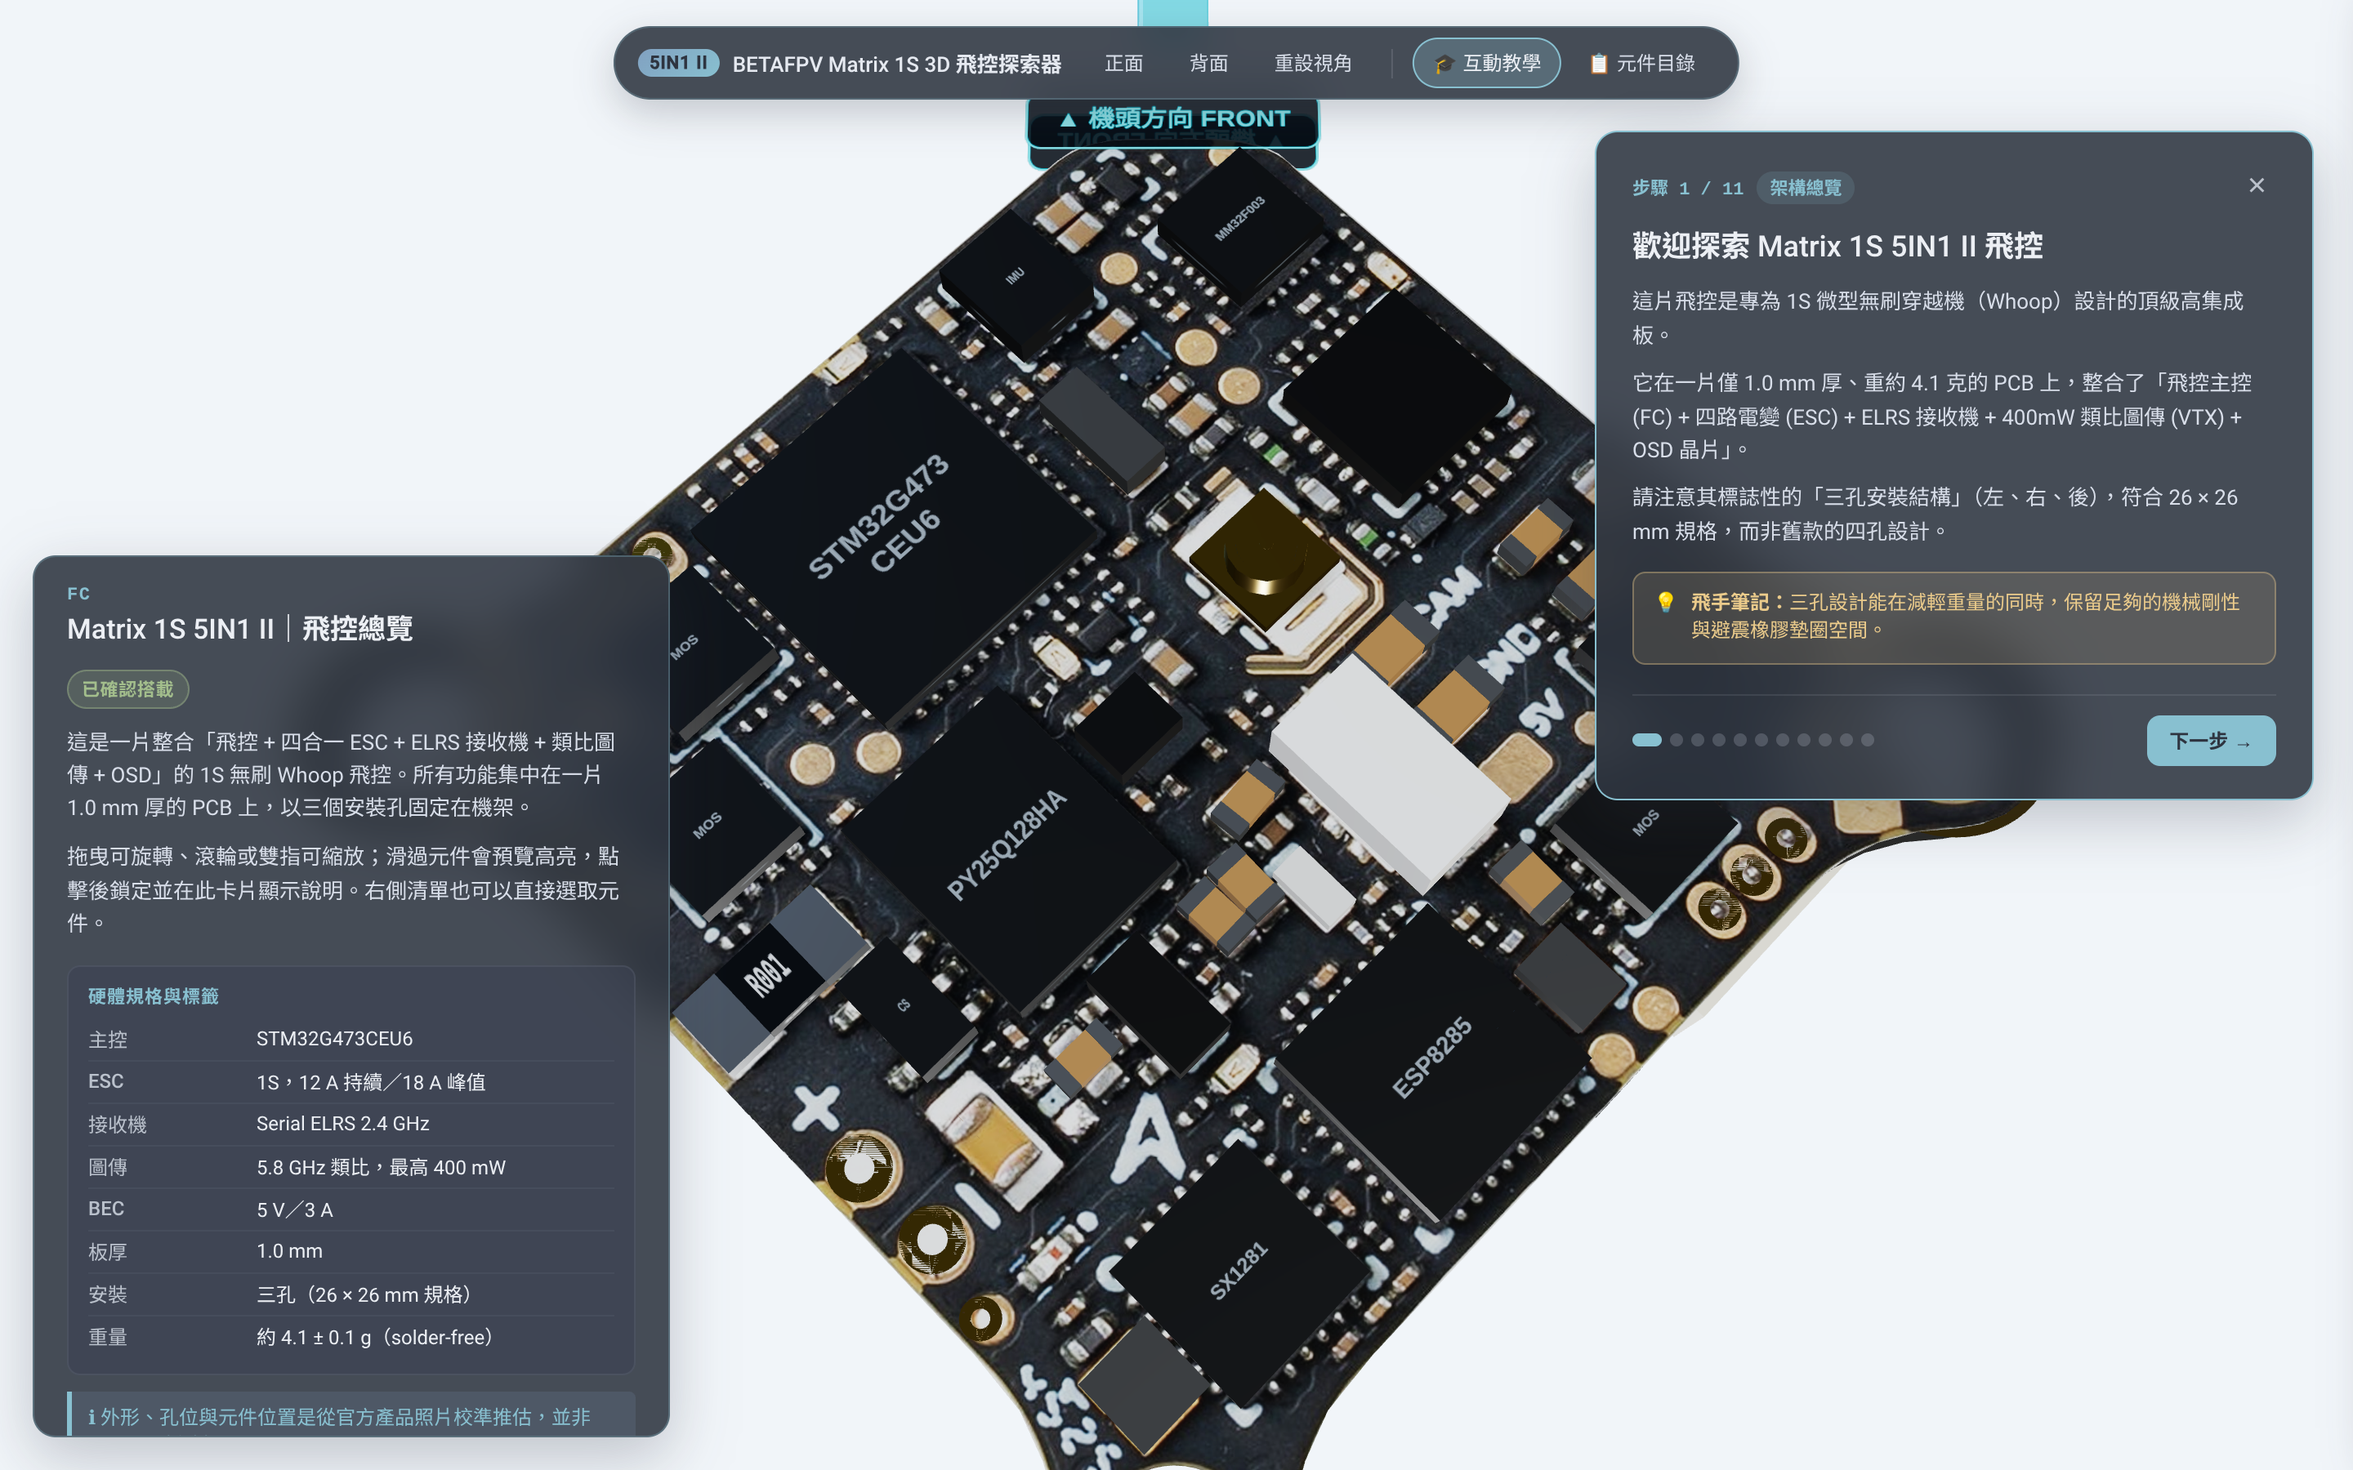
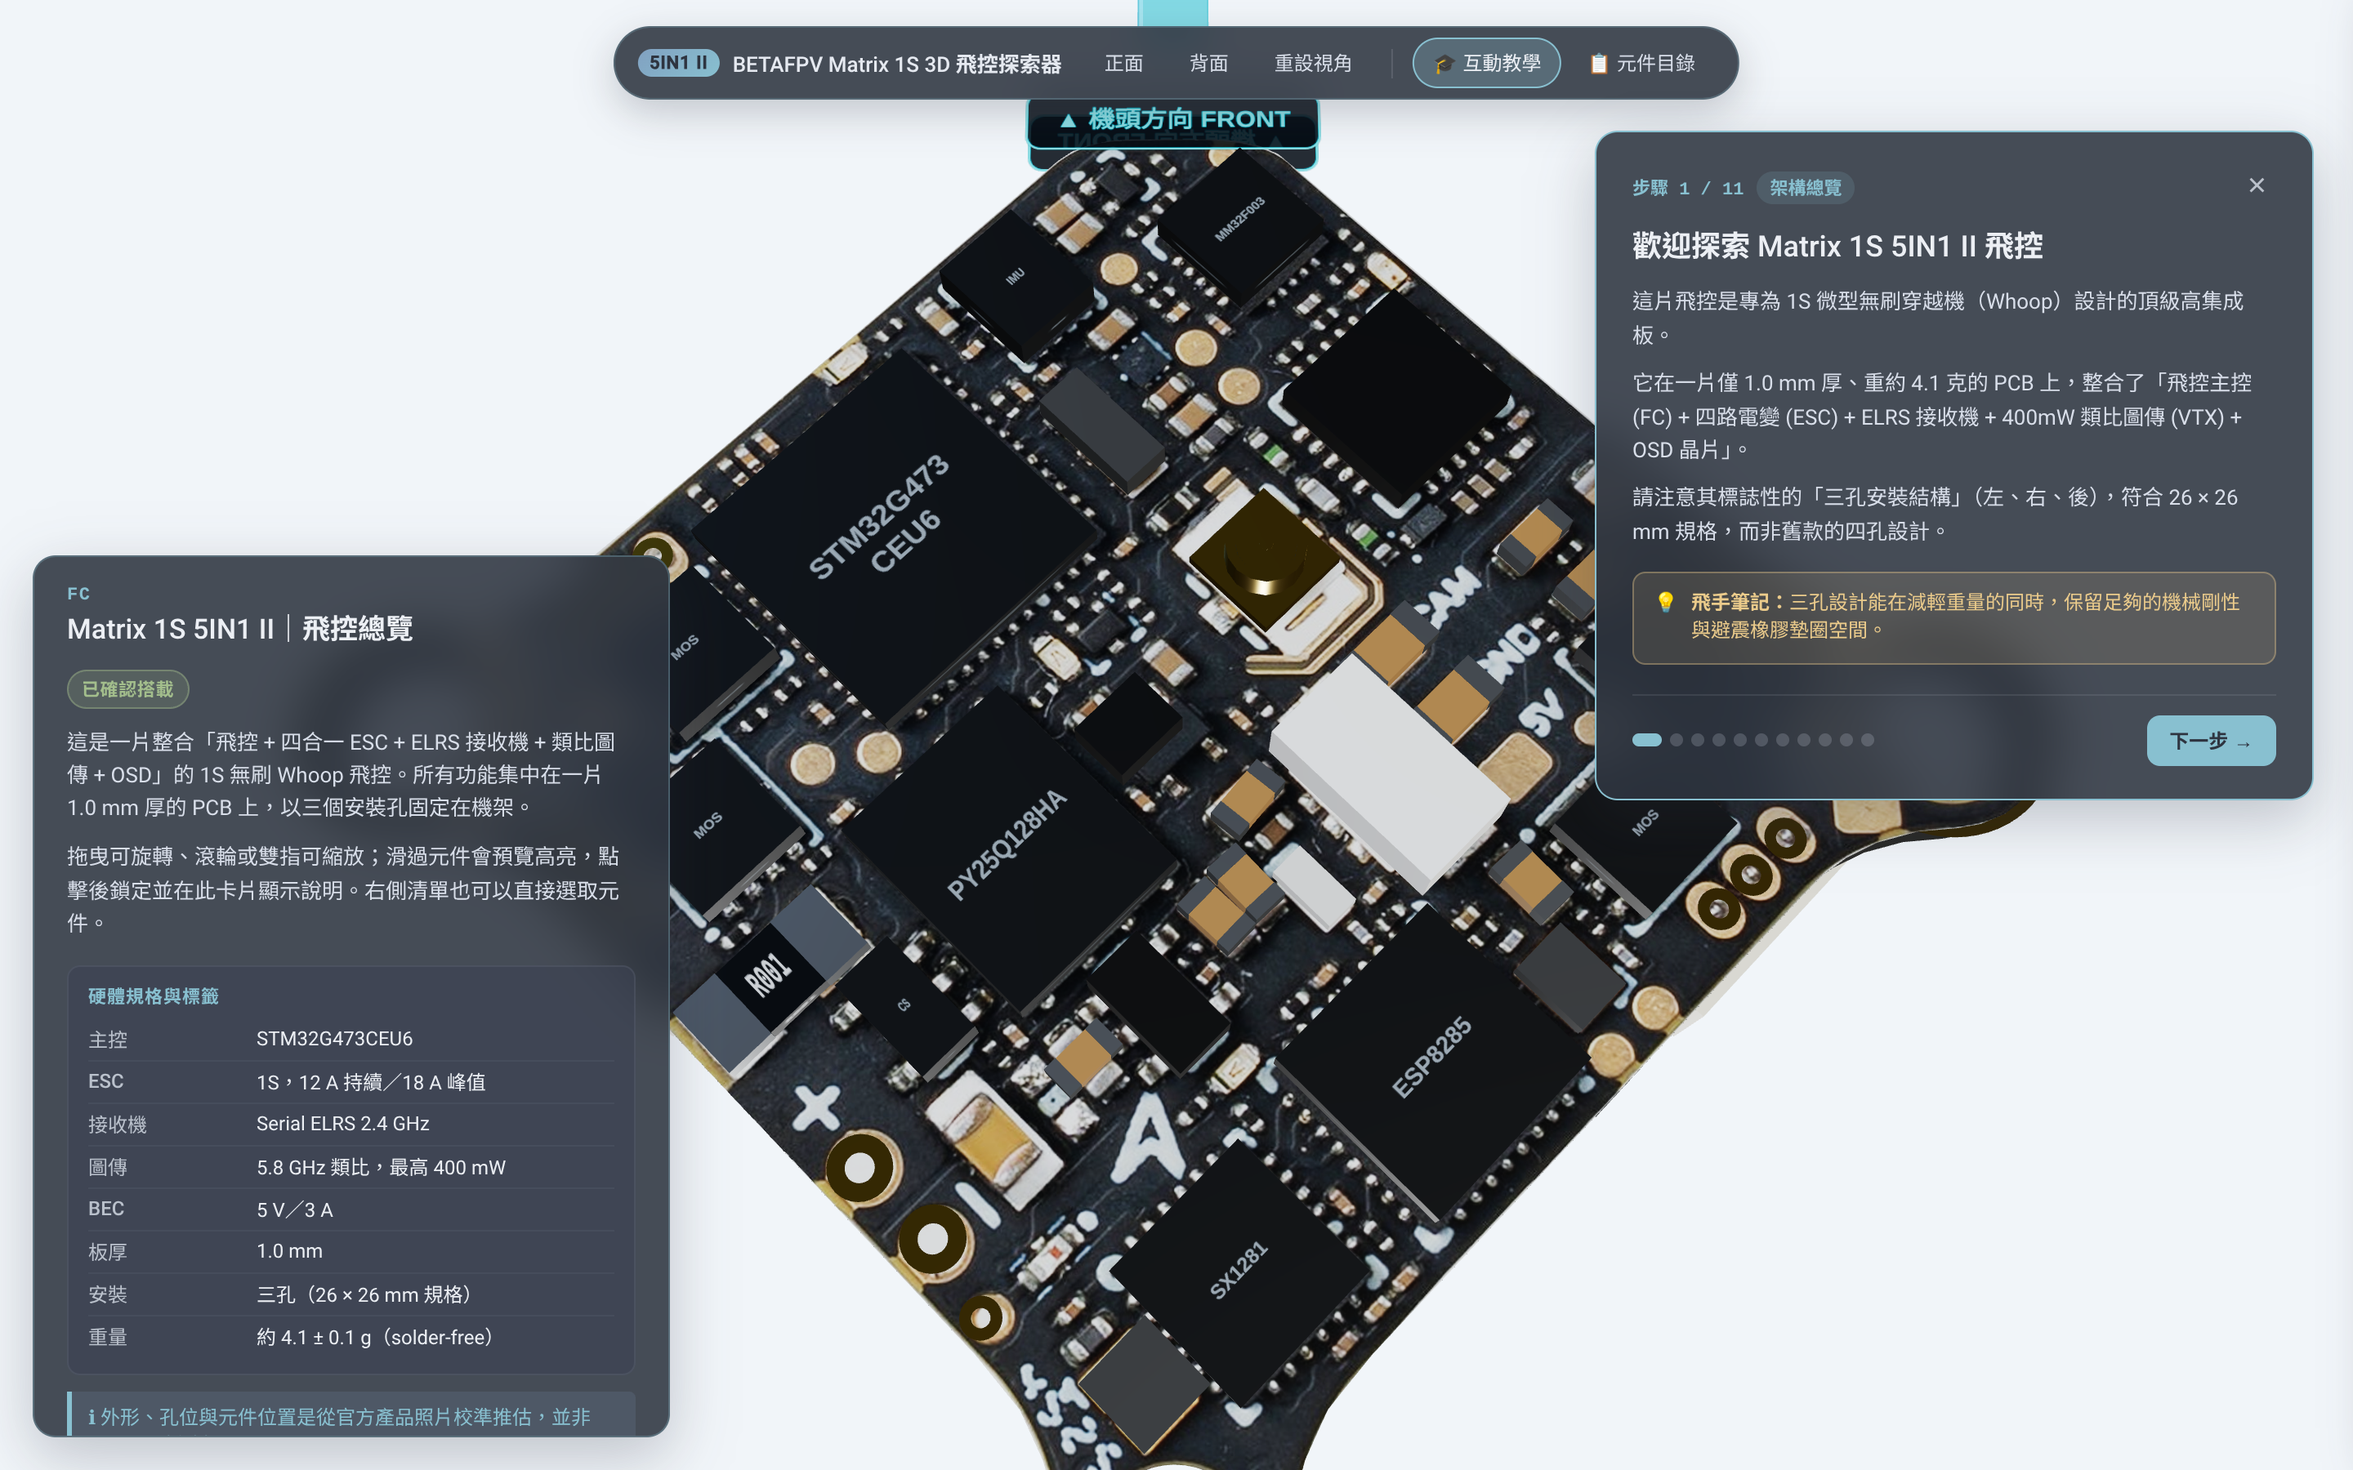
feat(ui): highlight verified board interfaces

diff --git a/src/scene/highlight.ts b/src/scene/highlight.ts
@@ -11,6 +11,7 @@ export class HighlightManager {
 
   // State
   private hoveredId: ComponentId | null = null;
+  private hoveredPlacementKey: string | null = null;
   private selectedId: ComponentId | null = null;
   private selectedPlacementKey: string | null = null;
 
@@ -20,18 +21,11 @@ export class HighlightManager {
   private readonly selectMaterials = new Map<THREE.Mesh, THREE.Material | THREE.Material[]>();
   private readonly dimMaterials = new Map<THREE.Mesh, THREE.Material | THREE.Material[]>();
 
-  // Selection accent box wireframe in 3D space
-  private readonly selectionBox: THREE.BoxHelper;
+  // Reuse one outline per physical placement, including distributed connectors.
+  private readonly selectionBoxes = new Map<string, THREE.Box3Helper>();
 
   constructor(scene: THREE.Scene) {
     this.scene = scene;
-    this.selectionBox = new THREE.BoxHelper(new THREE.Object3D(), 0x00f0ff);
-    this.selectionBox.visible = false;
-    (this.selectionBox.material as THREE.LineBasicMaterial).linewidth = 2;
-    this.selectionBox.renderOrder = 999;
-    (this.selectionBox.material as THREE.LineBasicMaterial).depthTest = false;
-    this.scene.add(this.selectionBox);
-
     this.indexMeshes();
   }
 
@@ -73,9 +67,10 @@ export class HighlightManager {
     });
   }
 
-  setHover(id: ComponentId | null) {
-    if (this.hoveredId === id) return;
+  setHover(id: ComponentId | null, placementKey: string | null = null) {
+    if (this.hoveredId === id && this.hoveredPlacementKey === placementKey) return;
     this.hoveredId = id;
+    this.hoveredPlacementKey = placementKey;
     this.applyHighlights();
   }
 
@@ -93,36 +88,32 @@ export class HighlightManager {
       mesh.material = origMat;
     });
 
-    // 2. Dim other components when a component is selected (contrast enhancement)
-    if (this.selectedId && this.selectedId !== 'board') {
-      const selectedMeshes = new Set(this.meshesByComponent.get(this.selectedId) || []);
-
+    const selectedMeshes = new Set(this.getTargetMeshes(this.selectedId, this.selectedPlacementKey));
+    // A card without model geometry must not dim the entire board.
+    if (selectedMeshes.size > 0) {
       this.allManagedMeshes.forEach((mesh) => {
-        if (!selectedMeshes.has(mesh)) {
-          mesh.material = this.getOrCreateDimMaterial(mesh);
-        }
-      });
-
-      // 3. Apply Selected Highlight to the target meshes (clean emissive glow, markings visible)
-      selectedMeshes.forEach((mesh) => {
-        mesh.material = this.getOrCreateSelectMaterial(mesh);
+        mesh.material = selectedMeshes.has(mesh)
+          ? this.getOrCreateSelectMaterial(mesh)
+          : this.getOrCreateDimMaterial(mesh);
       });
     }
 
-    // 4. Apply Hover Highlight (if hoveredId is not currently selected)
-    if (this.hoveredId && this.hoveredId !== this.selectedId && this.hoveredId !== 'board') {
-      const hoverMeshes = this.meshesByComponent.get(this.hoveredId) || [];
-      hoverMeshes.forEach((mesh) => {
-        mesh.material = this.getOrCreateHoverMaterial(mesh);
-      });
+    for (const mesh of this.getTargetMeshes(this.hoveredId, this.hoveredPlacementKey)) {
+      if (!selectedMeshes.has(mesh)) mesh.material = this.getOrCreateHoverMaterial(mesh);
     }
+  }
+
+  private getTargetMeshes(id: ComponentId | null, placementKey: string | null): THREE.Mesh[] {
+    if (!id || id === 'board') return [];
+    const meshes = this.meshesByComponent.get(id) || [];
+    return placementKey ? meshes.filter((mesh) => this.findPlacementKey(mesh) === placementKey) : meshes;
   }
 
   private getOrCreateHoverMaterial(mesh: THREE.Mesh): THREE.Material | THREE.Material[] {
     let mat = this.hoverMaterials.get(mesh);
     if (!mat) {
       const orig = this.originalMaterials.get(mesh) || mesh.material;
-      mat = this.cloneWithTint(orig, 0x00d8f0, 0.22);
+      mat = this.cloneWithTint(orig, 0x8fbcbb, 0.22);
       this.hoverMaterials.set(mesh, mat);
     }
     return mat;
@@ -132,7 +123,7 @@ export class HighlightManager {
     let mat = this.selectMaterials.get(mesh);
     if (!mat) {
       const orig = this.originalMaterials.get(mesh) || mesh.material;
-      mat = this.cloneWithTint(orig, 0x00f0ff, 0.40);
+      mat = this.cloneWithTint(orig, 0x88c0d0, 0.40);
       this.selectMaterials.set(mesh, mat);
     }
     return mat;
@@ -187,61 +178,39 @@ export class HighlightManager {
   }
 
   private updateSelectionBox() {
-    if (!this.selectedId || this.selectedId === 'board') {
-      this.selectionBox.visible = false;
-      return;
-    }
+    this.selectionBoxes.forEach((outline) => { outline.visible = false; });
+    const targets = this.getTargetMeshes(this.selectedId, this.selectedPlacementKey);
+    if (targets.length === 0) return;
 
-    let targetMeshes: THREE.Mesh[] = [];
-
-    // Level 1: If a specific physical component was clicked, box ONLY that component!
-    if (this.selectedPlacementKey && this.meshesByPlacementKey.has(this.selectedPlacementKey)) {
-      targetMeshes = this.meshesByPlacementKey.get(this.selectedPlacementKey) || [];
-    } else {
-      // Level 2: Functional Group selected
-      const allMeshes = this.meshesByComponent.get(this.selectedId) || [];
-      if (allMeshes.length <= 4) {
-        targetMeshes = allMeshes;
-      } else {
-        // For large distributed groups (like ESC with 16+ parts on both faces),
-        // box the primary cluster on the top face or first placement rather than spanning both sides
-        const topCluster = allMeshes.filter((m) => m.userData.side === 'top' || m.position.y > 0);
-        targetMeshes = topCluster.length > 0 ? topCluster : allMeshes;
+    this.scene.updateMatrixWorld(true);
+    const boundsByPlacement = new Map<string, THREE.Box3>();
+    for (const mesh of targets) {
+      const key = this.findPlacementKey(mesh) || this.selectedId!;
+      const bounds = boundsByPlacement.get(key) || new THREE.Box3();
+      mesh.geometry.computeBoundingBox();
+      if (mesh.geometry.boundingBox) {
+        bounds.union(mesh.geometry.boundingBox.clone().applyMatrix4(mesh.matrixWorld));
       }
+      boundsByPlacement.set(key, bounds);
     }
 
-    if (targetMeshes.length === 0) {
-      this.selectionBox.visible = false;
-      return;
-    }
-
-    const bbox = new THREE.Box3();
-    targetMeshes.forEach((m) => {
-      m.geometry.computeBoundingBox();
-      if (m.geometry.boundingBox) {
-        const box = m.geometry.boundingBox.clone().applyMatrix4(m.matrixWorld);
-        bbox.union(box);
+    for (const [key, bounds] of boundsByPlacement) {
+      if (bounds.isEmpty()) continue;
+      let outline = this.selectionBoxes.get(key);
+      if (!outline) {
+        outline = new THREE.Box3Helper(new THREE.Box3(), 0x88c0d0);
+        outline.name = `selection_outline_${key}`;
+        const material = outline.material as THREE.LineBasicMaterial;
+        material.depthWrite = false;
+        material.toneMapped = false;
+        outline.renderOrder = 999;
+        this.scene.add(outline);
+        this.selectionBoxes.set(key, outline);
       }
-    });
-
-    if (bbox.isEmpty()) {
-      this.selectionBox.visible = false;
-      return;
+      // A real Box3 gives the helper nonempty bounds, even for flat solder pads.
+      outline.box.copy(bounds).expandByScalar(0.2);
+      outline.visible = true;
     }
-
-    // Expand slightly for clean outline gap
-    bbox.expandByScalar(0.35);
-
-    const dummy = new THREE.Object3D();
-    const center = new THREE.Vector3();
-    const size = new THREE.Vector3();
-    bbox.getCenter(center);
-    bbox.getSize(size);
-
-    dummy.position.copy(center);
-    dummy.scale.copy(size);
-    this.selectionBox.setFromObject(dummy);
-    this.selectionBox.visible = true;
   }
 
   private findComponentId(obj: THREE.Object3D | null): ComponentId | null {
@@ -271,6 +240,7 @@ export class HighlightManager {
     }
 
     if (!meshes || meshes.length === 0) return null;
+    this.scene.updateMatrixWorld(true);
     const bbox = new THREE.Box3();
     meshes.forEach((m) => {
       m.geometry.computeBoundingBox();
@@ -291,8 +261,12 @@ export class HighlightManager {
     this.selectMaterials.clear();
     this.dimMaterials.clear();
     this.originalMaterials.clear();
-    this.selectionBox.geometry.dispose();
-    (this.selectionBox.material as THREE.Material).dispose();
+    this.selectionBoxes.forEach((outline) => {
+      this.scene.remove(outline);
+      outline.geometry.dispose();
+      (outline.material as THREE.Material).dispose();
+    });
+    this.selectionBoxes.clear();
   }
 
   private disposeMat(mat: THREE.Material | THREE.Material[]) {

diff --git a/src/scene/materials.ts b/src/scene/materials.ts
@@ -9,6 +9,9 @@ export class MaterialLibrary {
   // Mounting hole exposed copper/gold rings
   readonly goldPlating: THREE.MeshStandardMaterial;
 
+  // Flat solder pads need stronger depth bias than the photo face plates.
+  readonly solderPadGold: THREE.MeshStandardMaterial;
+
   // Solder joints / tin plating
   readonly solderTin: THREE.MeshStandardMaterial;
 
@@ -60,6 +63,11 @@ export class MaterialLibrary {
       roughness: 0.25,
       metalness: 0.92,
     });
+
+    this.solderPadGold = this.goldPlating.clone();
+    this.solderPadGold.polygonOffset = true;
+    this.solderPadGold.polygonOffsetFactor = -2;
+    this.solderPadGold.polygonOffsetUnits = -2;
 
     this.solderTin = new THREE.MeshStandardMaterial({
       color: 0xd8dde2,
@@ -189,6 +197,7 @@ export class MaterialLibrary {
     this.bottomPhotoTex = null;
     this.substrateEdge.dispose();
     this.goldPlating.dispose();
+    this.solderPadGold.dispose();
     this.solderTin.dispose();
     this.icBody.dispose();
     this.icLead.dispose();

diff --git a/src/scene/createComponents.ts b/src/scene/createComponents.ts
@@ -237,7 +237,7 @@ function createThroughHolePad(materials: MaterialLibrary, p: Placement): THREE.G
 
   const geo = new THREE.ShapeGeometry(shape, 16);
   geo.rotateX(-Math.PI / 2);
-  const pad = new THREE.Mesh(geo, materials.goldPlating);
+  const pad = new THREE.Mesh(geo, materials.solderPadGold);
   pad.position.y = 0.01;
   g.add(pad);
 

diff --git a/src/main.ts b/src/main.ts
@@ -235,7 +235,7 @@ function init() {
       tooltip.classList.remove('visible');
     }
 
-    highlight.setHover(hoveredId);
+    highlight.setHover(hoveredId, hit.placementKey);
   });
 
   dom.addEventListener('pointerup', (e) => {

diff --git a/README.md b/README.md
@@ -23,6 +23,7 @@ The 3D model and interactive features have been automatically validated using he
 | **MCU Macro Focus & Info Card** | ![MCU Selected](tools/screenshots/04_mcu_selected.png) |
 | **Bottom View & AT7456E OSD** | ![Bottom OSD Selected](tools/screenshots/06_osd_bottom_selected.png) |
 | **Photographic Texture Mode** | ![Photographic Mode](tools/screenshots/02_top_view.png) |
+| **BT2.0 Battery Pad Highlight** | ![Battery Pad Highlight](tools/screenshots/13_battery_highlight.png) |
 | **BOOT Button & Firmware Entry** | ![BOOT Button](tools/screenshots/09_boot_button.png) |
 | **UART1 Wiring Reference** | ![UART1 Pads](tools/screenshots/12_uart_pads.png) |
 | **Interactive Guided Tutorial** | ![Tutorial Step](tools/screenshots/07_tutorial_step.png) |
@@ -63,6 +64,8 @@ This project strictly models the **5IN1 II (Second Generation)**, and deliberate
   - Raycaster accounts for opaque substrate intersections, completely eliminating accidental picking of back-face chips through the board.
 - **Nord Information Cards**:
   - Nord Polar Night panels use 88% opacity with backdrop blur, Snow Storm text, and Frost accents. The bottom-left card displays Traditional Chinese hardware titles, status badges (`已確認搭載`, `型號依批次不同`, `推估位置`), functional descriptions, verified specs table, and camera focus shortcuts.
+- **Connector Selection & Highlights**:
+  - Selecting a connector on the board highlights that placement; selecting a catalog group highlights each modeled placement with its own Nord Frost outline. BT2.0 highlights the BATT+/GND solder pads shown in the model. Flat pads use depth bias to stay visible above the photo surface.
 - **Component Catalog Drawer with Active Highlights**:
   - Sidebar drawer allows pilots to browse all components; stays open during browsing with persistent active selection highlights. Confirmed interface cards cover BOOT, camera input, 5V/GND power, UART1, buzzer pads, and LED connections. Cards for pads without modeled geometry link to the manufacturer wiring diagram.
 - **11-Step Guided Educational Tutorial**:

diff --git a/REFERENCE_NOTES.md b/REFERENCE_NOTES.md
@@ -38,3 +38,9 @@
 ## 3. Electrical Reconstruction Limits
 
 No verified schematic, netlist, or Gerber files are included. The former board-surface schematic overlay has been removed: its hard-coded connections were unsupported, and its coordinates did not follow the placement conversion. Electrical routing and internal planes remain unknown. PBR parameters describe the visualization, not measured hardware properties.
+
+## 4. Interface Highlight Rendering
+
+Selection outlines are UI annotations generated from the actual mesh bounds, not physical PCB geometry. Distributed groups receive one outline per modeled placement; direct hover/click targets only that placement. BT2.0 is represented by its BATT+/GND board pads. The external plug and cable are not reconstructed.
+
+Flat solder-pad materials use stronger polygon offset than the photo face plates to reduce depth conflicts while retaining their photo-estimated coordinates. Unknown component roles remain in `MESH_RESEARCH_NOTES.md`; they are not added to the catalog.
